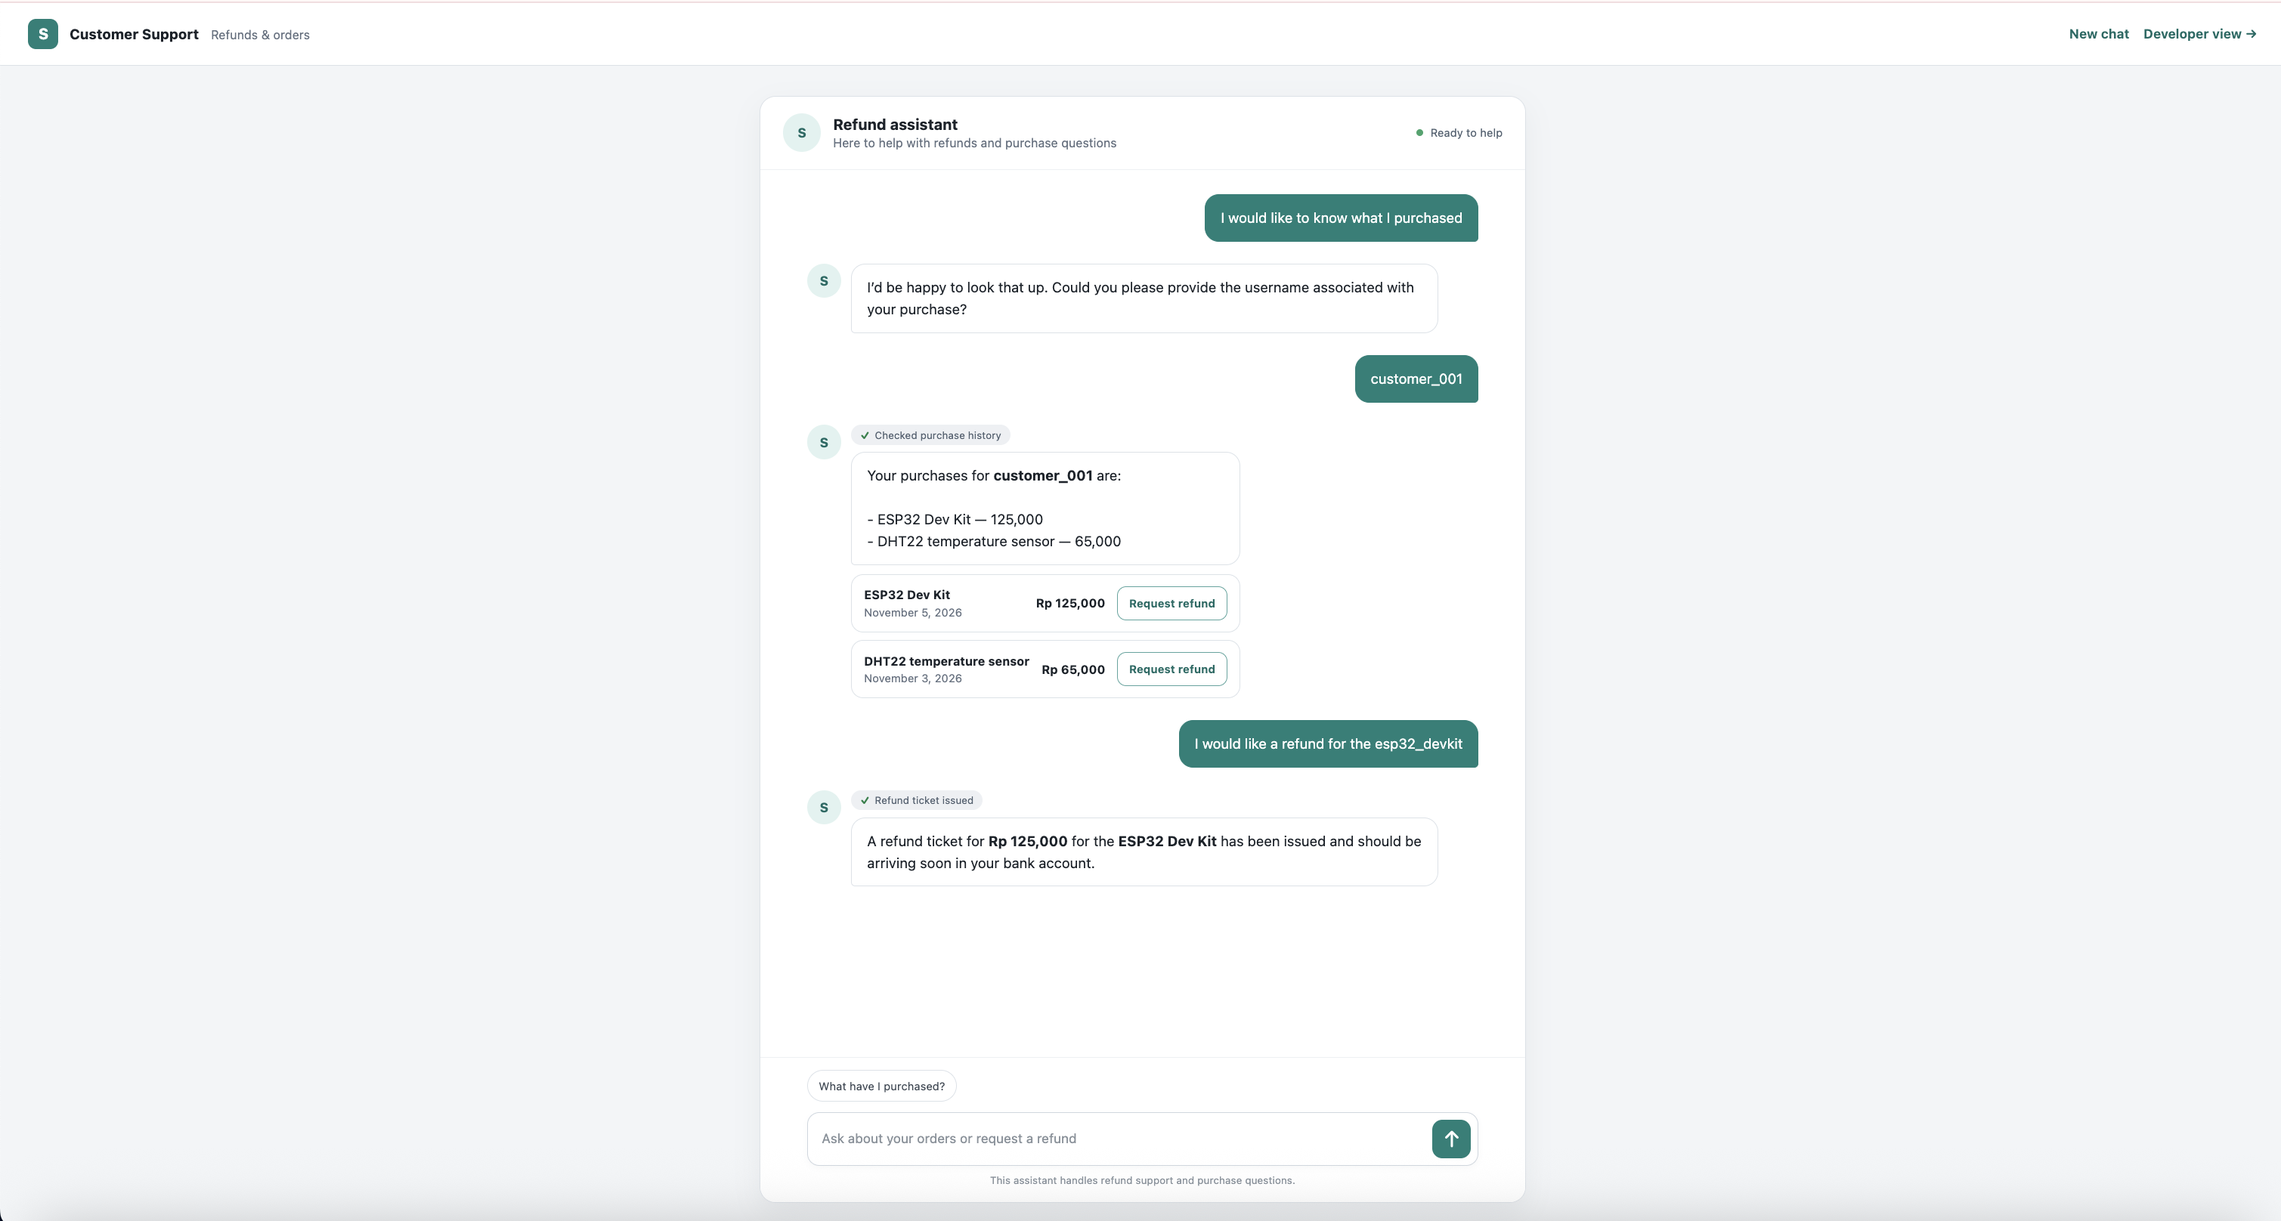
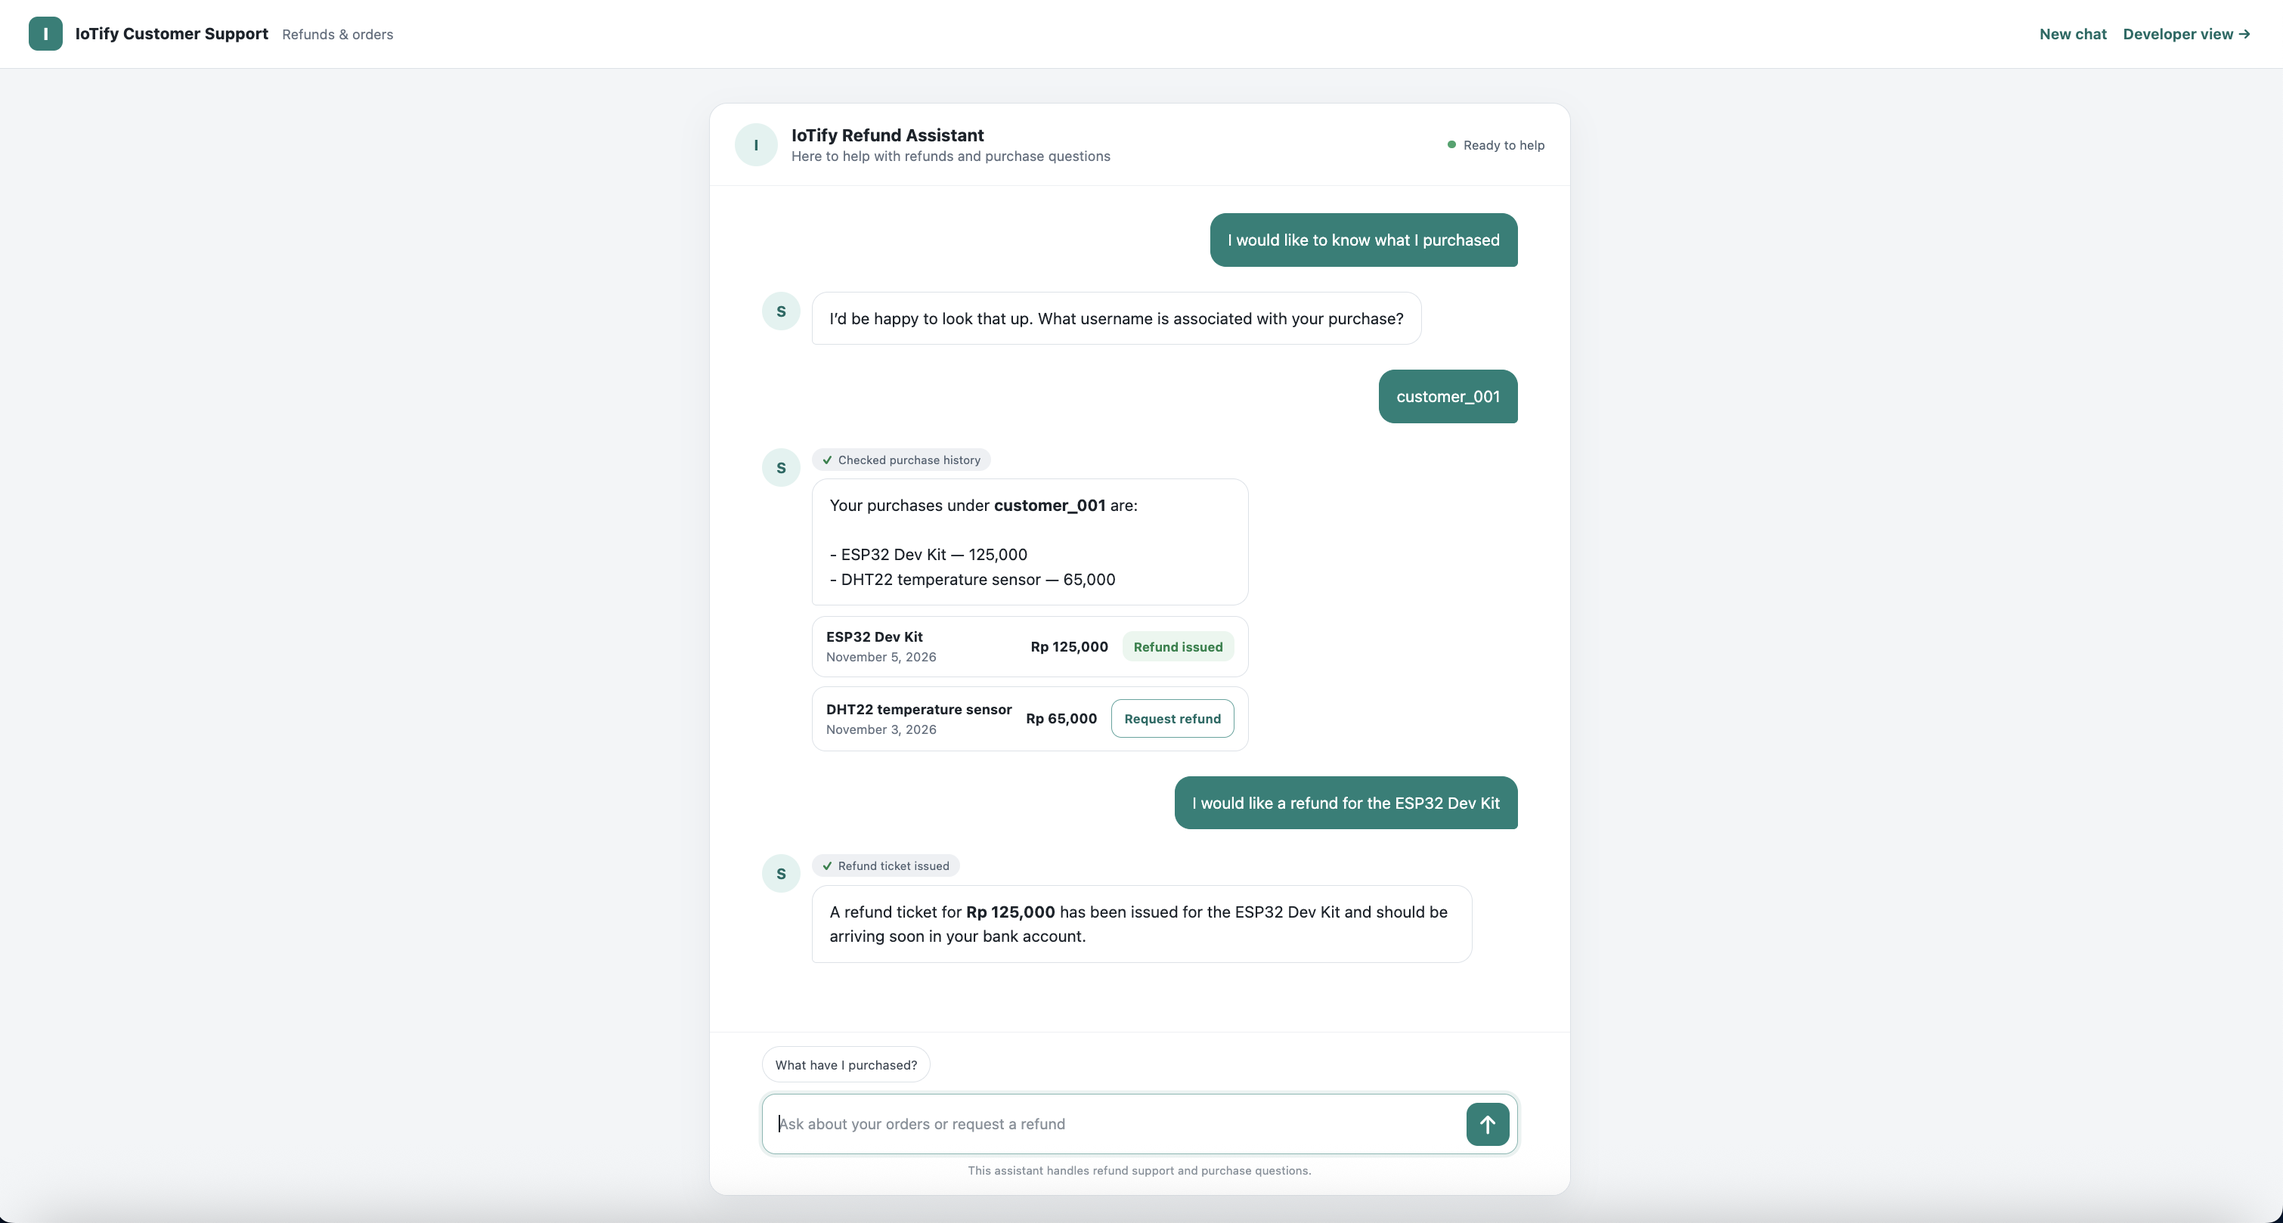
Updated README file

diff --git a/README.md b/README.md
@@ -1,20 +1,370 @@
-# Evaluated-AI-Refund-Agent
-A customer support AI agent that processes refund requests using tools, follows refund policies, and is evaluated using DeepEval to measure task completion, tool correctness, argument accuracy, and answer quality.
+# 🧾 IoTify Refund Assistant | Agent + Evaluation Dashboard
 
-## Local web app
+> A customer-support agent for refund requests and purchase questions, with a customer-facing web chat and a developer view that scores any saved conversation on seven agent-evaluation metrics.
 
-The web app provides a customer refund chat and a developer conversation-evaluation view. Create separate customer conversations with **New chat**; conversations and tool activity are stored locally in `.webapp-data/refund-chats.sqlite3`. In the developer view, select a conversation and evaluate it without replaying the agent.
+**Stack:** Python · LangChain · LangGraph · OpenAI chat models · DeepEval · Python standard-library HTTP server · SQLite · HTML / CSS / JavaScript
 
-Each selected chat is evaluated with seven metrics: Task Completion, Step Efficiency, Plan Quality, Plan Adherence, Argument Correctness, Tool Correctness, and Answer Correctness. Chats are titled with the identified username and last-activity date, or `Unknown user` until a username is identified.
+![Agent evaluation metrics map](docs/agent_evals_metrics_map.jpg)
 
-The app uses Python's standard-library HTTP server, so no additional web framework is required.
+> [!IMPORTANT]
+> This is a demonstration project. Refund tickets are **simulated** by a local tool. The app is not connected to a real bank, payment processor, or order-management system, and the sample customers and purchases in `agent/data.py` are fictional.
 
-Run it from the project root using the Python environment that has the agent and DeepEval dependencies installed:
+---
+
+## Table of Contents
+
+- [1. Problem Statement](#1-problem-statement)
+- [2. Proposed Solution](#2-proposed-solution)
+- [3. System Architecture](#3-system-architecture)
+- [4. How the Agent Behaves](#4-how-the-agent-behaves)
+- [5. Evaluation Metrics](#5-evaluation-metrics)
+- [6. Technology Stack](#6-technology-stack)
+- [7. Project Structure](#7-project-structure)
+- [8. Setup and Installation](#8-setup-and-installation)
+- [9. Running the Web App](#9-running-the-web-app)
+- [10. Running the Tests](#10-running-the-tests)
+- [11. Running the Evaluations](#11-running-the-evaluations)
+- [12. Local Data and Privacy](#12-local-data-and-privacy)
+- [13. Limitations](#13-limitations)
+- [14. License](#14-license)
+
+---
+
+## 1. Problem Statement
+
+Refund conversations look simple but are easy for an AI agent to get wrong. The agent has to identify the customer, look up purchase records, apply a policy, and only then act. A fluent reply can hide a wrong tool call or a refund for the wrong item.
+
+| Problem | Description |
+|---|---|
+| **Policy errors** | Refunding outside the 30-day window, or an item that was never bought. |
+| **Wrong actions** | Issuing a ticket for items the customer did not select. |
+| **Hard-to-inspect behavior** | A good-sounding answer says little about whether the right tools were called with the right arguments. |
+| **No feedback loop** | Without repeatable evaluations, prompt or tool changes cannot be compared. |
+
+### Core Challenge
+
+> How can we build a refund agent that follows policy, and give developers a way to measure, per conversation and per metric, whether it actually did?
+
+---
+
+## 2. Proposed Solution
+
+Two pages on top of one agent:
+
+1. **Customer chat (`/`).** A customer talks to the refund assistant.
+2. **Developer view (`/developer`).** A developer selects a saved conversation and evaluates it on seven metrics.
+
+Underneath, a golden evaluation dataset and standalone scripts let you run the same metrics outside the web app.
+
+### Screenshots
+
+| Customer chat | Developer view |
+|---|---|
+| ![Customer chat](ui-assets/customer-chat.png) | ![Developer view](ui-assets/developer-view.png) |
+
+### Features
+
+- 💬 Customer chat for refund requests and purchase questions
+- 🔎 Purchase lookup by username
+- 🗓 30-day eligibility check against the purchase date
+- 🎫 Simulated refund tickets for only the items the customer selected and purchased
+- 🧭 Redirects unrelated requests back to refunds and purchases
+- 🏷 Readable product names in customer-facing replies, not raw underscore-separated identifiers
+- 🗂 Saved chats with titles built from the identified username and last-activity date (or **Unknown user**)
+- 📊 Seven-metric evaluation of any saved conversation
+- 🧪 Golden dataset plus individual and combined evaluation scripts
+- ✅ `unittest` tests for chat evaluation, storage, and item-name formatting
+
+---
+
+## 3. System Architecture
+
+```mermaid
+flowchart TD
+    C[Customer] --> UI1[Customer chat page<br/>GET /]
+    D[Developer] --> UI2[Developer view<br/>GET /developer]
+    UI1 --> S[web/server.py<br/>Standard-library HTTP server<br/>127.0.0.1]
+    UI2 --> S
+    S --> A[Refund agent<br/>LangChain + LangGraph + OpenAI]
+    A --> T1[get_user_purchase_history]
+    A --> T2[issue_refund_ticket]
+    T1 --> DATA[(agent/data.py<br/>Sample customers and purchases)]
+    S --> ST[(.webapp-data/refund-chats.sqlite3<br/>Chats, transcripts, evaluation results)]
+    S --> EV[web/chat_evaluation.py]
+    EV --> M[evaluations/<br/>Seven metrics]
+    M --> J[Judge model<br/>evaluations/model.py]
+```
+
+---
+
+## 4. How the Agent Behaves
+
+The agent has two tools:
+
+| Tool | Purpose |
+|---|---|
+| `get_user_purchase_history` | Looks up a customer's purchases by username from the sample data in `agent/data.py`. |
+| `issue_refund_ticket` | Checks item eligibility and creates a **simulated** refund ticket. No money moves. |
+
+`agent/tools.py` also defines `calculate_right_refund`. It is **not registered** with the active agent, so the agent cannot call it.
+
+Behavior rules:
+
+1. **A username is required** before any lookup. If the customer has not given one, the agent asks.
+2. **Eligibility is checked** against the purchase date and the **30-day** window.
+3. **Only selected, purchased, eligible items receive a ticket.** The agent does not process items the customer did not choose or items that are not in their history; the tool enforces the date policy.
+4. **Purchase questions** (what was bought, when) are answered from the lookup.
+5. **Unrelated requests** are politely redirected.
+6. **Product names are shown in readable form** to customers.
+
+The agent introduces itself as the **IoTify Refund Assistant**. Its instructions are in `agent/prompts.py`. Both the agent and the DeepEval judge model are currently configured as `gpt-6-luna`; check `agent/agent.py` and `evaluations/model.py` if you change either model.
+
+The Plan Quality and Plan Adherence metrics use the recorded conversation and tool activity. They do not inspect hidden model reasoning.
+
+---
+
+## 5. Evaluation Metrics
+
+The developer view and the scripts in `evaluations/` score a conversation on seven metrics. Evaluation uses the **recorded conversation and tool activity**. It does not expose hidden model reasoning.
+
+| Metric | Question it answers |
+|---|---|
+| **Task Completion** | Did the agent actually accomplish what the user asked it to do? |
+| **Step Efficiency** | Did it complete the task without unnecessary steps? |
+| **Plan Quality** | Was the observable action sequence appropriate for the task? |
+| **Plan Adherence** | Did its recorded actions follow the task requirements? |
+| **Argument Correctness** | Did it pass the correct arguments to its tools? |
+| **Tool Correctness** | Did it select the right tools? |
+| **Answer Correctness** | Is its response consistent with the conversation, policy, and tool results? |
+
+> [!WARNING]
+> Evaluations call the configured **judge model**, so they use your API key and **may incur charges**. Evaluate a few conversations first to estimate cost.
+
+---
+
+## 6. Technology Stack
+
+| Component | Technology | Purpose |
+|---|---|---|
+| Agent runtime | Python, LangChain's agent API, LangGraph in-memory checkpointer | Runs the tool-calling refund agent and keeps its conversation state in memory while the server is running |
+| Chat model | `langchain_openai.ChatOpenAI` | Chat model for the agent, configured in `agent/agent.py` |
+| Agent tools | `get_user_purchase_history`, `issue_refund_ticket` (`agent/tools.py`) | The first reads the sample customer data; the second checks item eligibility and **simulates** a refund ticket. No real payment system is involved |
+| Data and schemas | Sample records in `agent/data.py`, Pydantic models in `agent/objects.py` | Fictional customer purchase records and typed objects. This is sample data, not a production database |
+| Evaluation | DeepEval, seven metrics, golden dataset, custom judge model | Scores conversations. Evaluations make model API calls and **may incur costs** |
+| Web backend | Python standard-library `ThreadingHTTPServer`, local SQLite | Serves the pages and endpoints on `127.0.0.1` and stores chats, transcripts, and evaluation results. It is not Flask or FastAPI |
+| Frontend | Static HTML, CSS, and vanilla JavaScript in `web/static/` | Customer chat and developer view. No frontend framework or build step |
+| Configuration | `python-dotenv` | Loads local settings (such as the OpenAI API key) from `.env` |
+| Tests | Python `unittest` under `tests/` | Tests for the web layer helpers |
+
+The repository does not pin dependency versions in a package manifest. The model names above are the values currently configured in source, not a promise that those models are available to every OpenAI account.
+
+---
+
+## 7. Project Structure
+
+```text
+.
+├── agent/
+│   ├── agent.py              # Agent construction and configured model
+│   ├── data.py               # Sample customers and purchases (fictional)
+│   ├── models.py
+│   ├── objects.py
+│   ├── prompts.py            # Agent prompts
+│   └── tools.py              # get_user_purchase_history, issue_refund_ticket
+│
+├── docs/
+│   └── agent_evals_metrics_map.jpg
+│
+├── evaluations/
+│   ├── all_evaluation.py     # Runs every metric together
+│   ├── answer_correctness.py
+│   ├── argument_correctness.py
+│   ├── dataset.py            # Golden evaluation dataset
+│   ├── model.py              # Judge model configuration
+│   ├── plan_adherence.py
+│   ├── plan_quality.py
+│   ├── step_efficiency.py
+│   ├── task_completion.py
+│   └── tool_correctness.py
+│
+├── tests/
+│   ├── test_chat_evaluation.py
+│   ├── test_chat_storage.py
+│   └── test_item_names.py
+│
+├── .deepeval/                # Tracked DeepEval result artifacts
+│   ├── .latest_run_full.json
+│   └── .latest_test_run.json
+│
+├── ui-assets/
+│   ├── customer-chat.png
+│   └── developer-view.png
+│
+├── web/
+│   ├── static/               # Customer and developer front end
+│   ├── chat_evaluation.py    # Runs evaluations on saved chats
+│   ├── chat_storage.py       # SQLite persistence for chats
+│   └── server.py             # HTTP server and routes
+│
+├── .gitignore
+├── LICENSE
+└── README.md
+```
+
+The web app creates `.webapp-data/` at runtime for its local SQLite database; this directory is ignored by Git. The `.deepeval/` result files shown above are currently tracked.
+
+---
+
+## 8. Setup and Installation
+
+### Prerequisites
+
+- Python 3.10 or later (the project has been run with Python 3.11.18)
+- An [OpenAI](https://platform.openai.com/) API key
+
+### Step 1: Clone the repository
+
+```bash
+git clone <your-repository-url>
+cd <repository-folder>
+```
+
+### Step 2: Create a virtual environment
+
+```bash
+python -m venv .venv
+source .venv/bin/activate        # Windows: .venv\Scripts\activate
+```
+
+### Step 3: Install dependencies
+
+The repository currently has **no `requirements.txt` or `pyproject.toml`**, so dependency versions are not pinned. The code directly imports these packages:
+
+```bash
+pip install langchain langchain-core langchain-openai langgraph deepeval python-dotenv pydantic
+```
+
+> [!NOTE]
+> This installs unpinned package versions; dependency compatibility may change over time. The project does not currently provide a reproducible lockfile.
+
+### Step 4: Configure environment variables
+
+The project uses `python-dotenv` to load local settings. For local use, put your OpenAI API key in an untracked `.env` file in the project root. The example below is a placeholder; never put a real key in this README or commit it:
+
+```dotenv
+OPENAI_API_KEY=your_openai_api_key_here
+```
+
+> [!WARNING]
+> **Security notes**
+>
+> - Never commit `.env`; it is listed in `.gitignore`.
+> - Never paste real API keys into documentation, screenshots, or chat. If a key has ever been exposed, rotate it immediately.
+> - `.webapp-data/` is also ignored by Git because it stores conversation transcripts.
+
+---
+
+## 9. Running the Web App
 
 ```bash
 python web/server.py
 ```
 
-Then open `http://127.0.0.1:8000`. The customer chat is at `/`, and the developer view is at `/developer`. Evaluations call the configured judge model and may use paid API credits. Chat and evaluation data stay in the ignored `.webapp-data/` directory.
+The server binds to **127.0.0.1**, so it is reachable only from your own machine.
 
-The server binds to localhost and has no authentication. Do not expose it to a network or deploy it publicly without adding authentication and protecting the evaluation endpoint.
+The default port is `8000`. You can choose a different port with the `--port` option or the `PORT` environment variable:
+
+```bash
+python web/server.py --port 8001
+# Or:
+PORT=8001 python web/server.py
+```
+
+| Page | URL |
+|---|---|
+| Customer chat | `http://127.0.0.1:<port>/` |
+| Developer view | `http://127.0.0.1:<port>/developer` |
+
+The main chat API routes are:
+
+| Method | Route | Purpose |
+|---|---|---|
+| `POST` | `/api/chat` | Send a customer message to the refund agent |
+| `GET` | `/api/chats` | List saved conversations |
+| `POST` | `/api/chats` | Create a new conversation |
+| `GET` | `/api/chats/{chat_id}` | Load one conversation |
+| `POST` | `/api/chats/{chat_id}/evaluate` | Start a background evaluation for a saved conversation |
+
+These are API endpoints, not additional pages.
+
+### Try it
+
+1. Open the customer chat and say you want a refund.
+2. Give a username from `agent/data.py` when asked.
+3. If you have not named an item, choose from the purchases the assistant finds. If you already named a purchased item, the assistant can proceed without asking you to select it again.
+4. Open `/developer`, select the saved chat, and run the evaluation.
+
+The optional terminal chat is started with `python agent/agent.py`. It begins by sending a sample refund request and then accepts replies in the terminal.
+
+---
+
+## 10. Running the Tests
+
+Tests live in `tests/` and use `unittest` discovery:
+
+```bash
+python -m unittest discover -s tests -v
+```
+
+| File | Covers |
+|---|---|
+| `test_chat_evaluation.py` | Expected-tool inference and construction of DeepEval inputs from saved conversations; does not call judge models |
+| `test_chat_storage.py` | Local chat persistence and marking successfully refunded purchase cards |
+| `test_item_names.py` | Customer-readable item names and refund assessment output |
+
+---
+
+## 11. Running the Evaluations
+
+The nine-case golden dataset is defined in `evaluations/dataset.py`. Each metric has its own script, and `all_evaluation.py` runs the configured metrics over the dataset.
+
+```bash
+# All seven metrics
+python evaluations/all_evaluation.py
+
+# A single metric, for example
+python evaluations/task_completion.py
+```
+
+Individual scripts are `task_completion.py`, `step_efficiency.py`, `plan_quality.py`, `plan_adherence.py`, `argument_correctness.py`, `tool_correctness.py`, and `answer_correctness.py`.
+
+The benchmark Answer Correctness script compares its output with golden expected outputs. Per-chat Answer Correctness uses a rubric over the selected conversation and its final assistant responses.
+
+> [!WARNING]
+> These commands call the judge model configured in `evaluations/model.py` and **may incur API charges**.
+
+---
+
+## 12. Local Data and Privacy
+
+- Chats, transcripts, and per-chat evaluation results are stored locally in `.webapp-data/refund-chats.sqlite3`.
+- Chat titles use the identified username and the last-activity date, or **Unknown user** if no username is known.
+- Do not commit the database. It contains whatever customers typed.
+- Customer messages are sent to the configured agent model. Running a chat evaluation also sends its recorded conversation and tool activity to the judge model. Avoid real personal or sensitive data.
+
+---
+
+## 13. Limitations
+
+- Refund tickets are simulated, and the sample data is fictional.
+- The refund policy is a fixed 30-day rule from the purchase date.
+- The agent uses an in-memory checkpointer while the server is running. Transcripts are saved in SQLite and replayed into a fresh in-memory thread when a saved chat continues after a server restart.
+- Evaluations rely on an LLM judge, so scores can vary between runs and cost money.
+- The server is meant for local use only (`127.0.0.1`). It has no authentication.
+- The project has no dependency manifest or pinned dependency versions yet.
+
+---
+
+## 14. License
+
+See [LICENSE](LICENSE).
